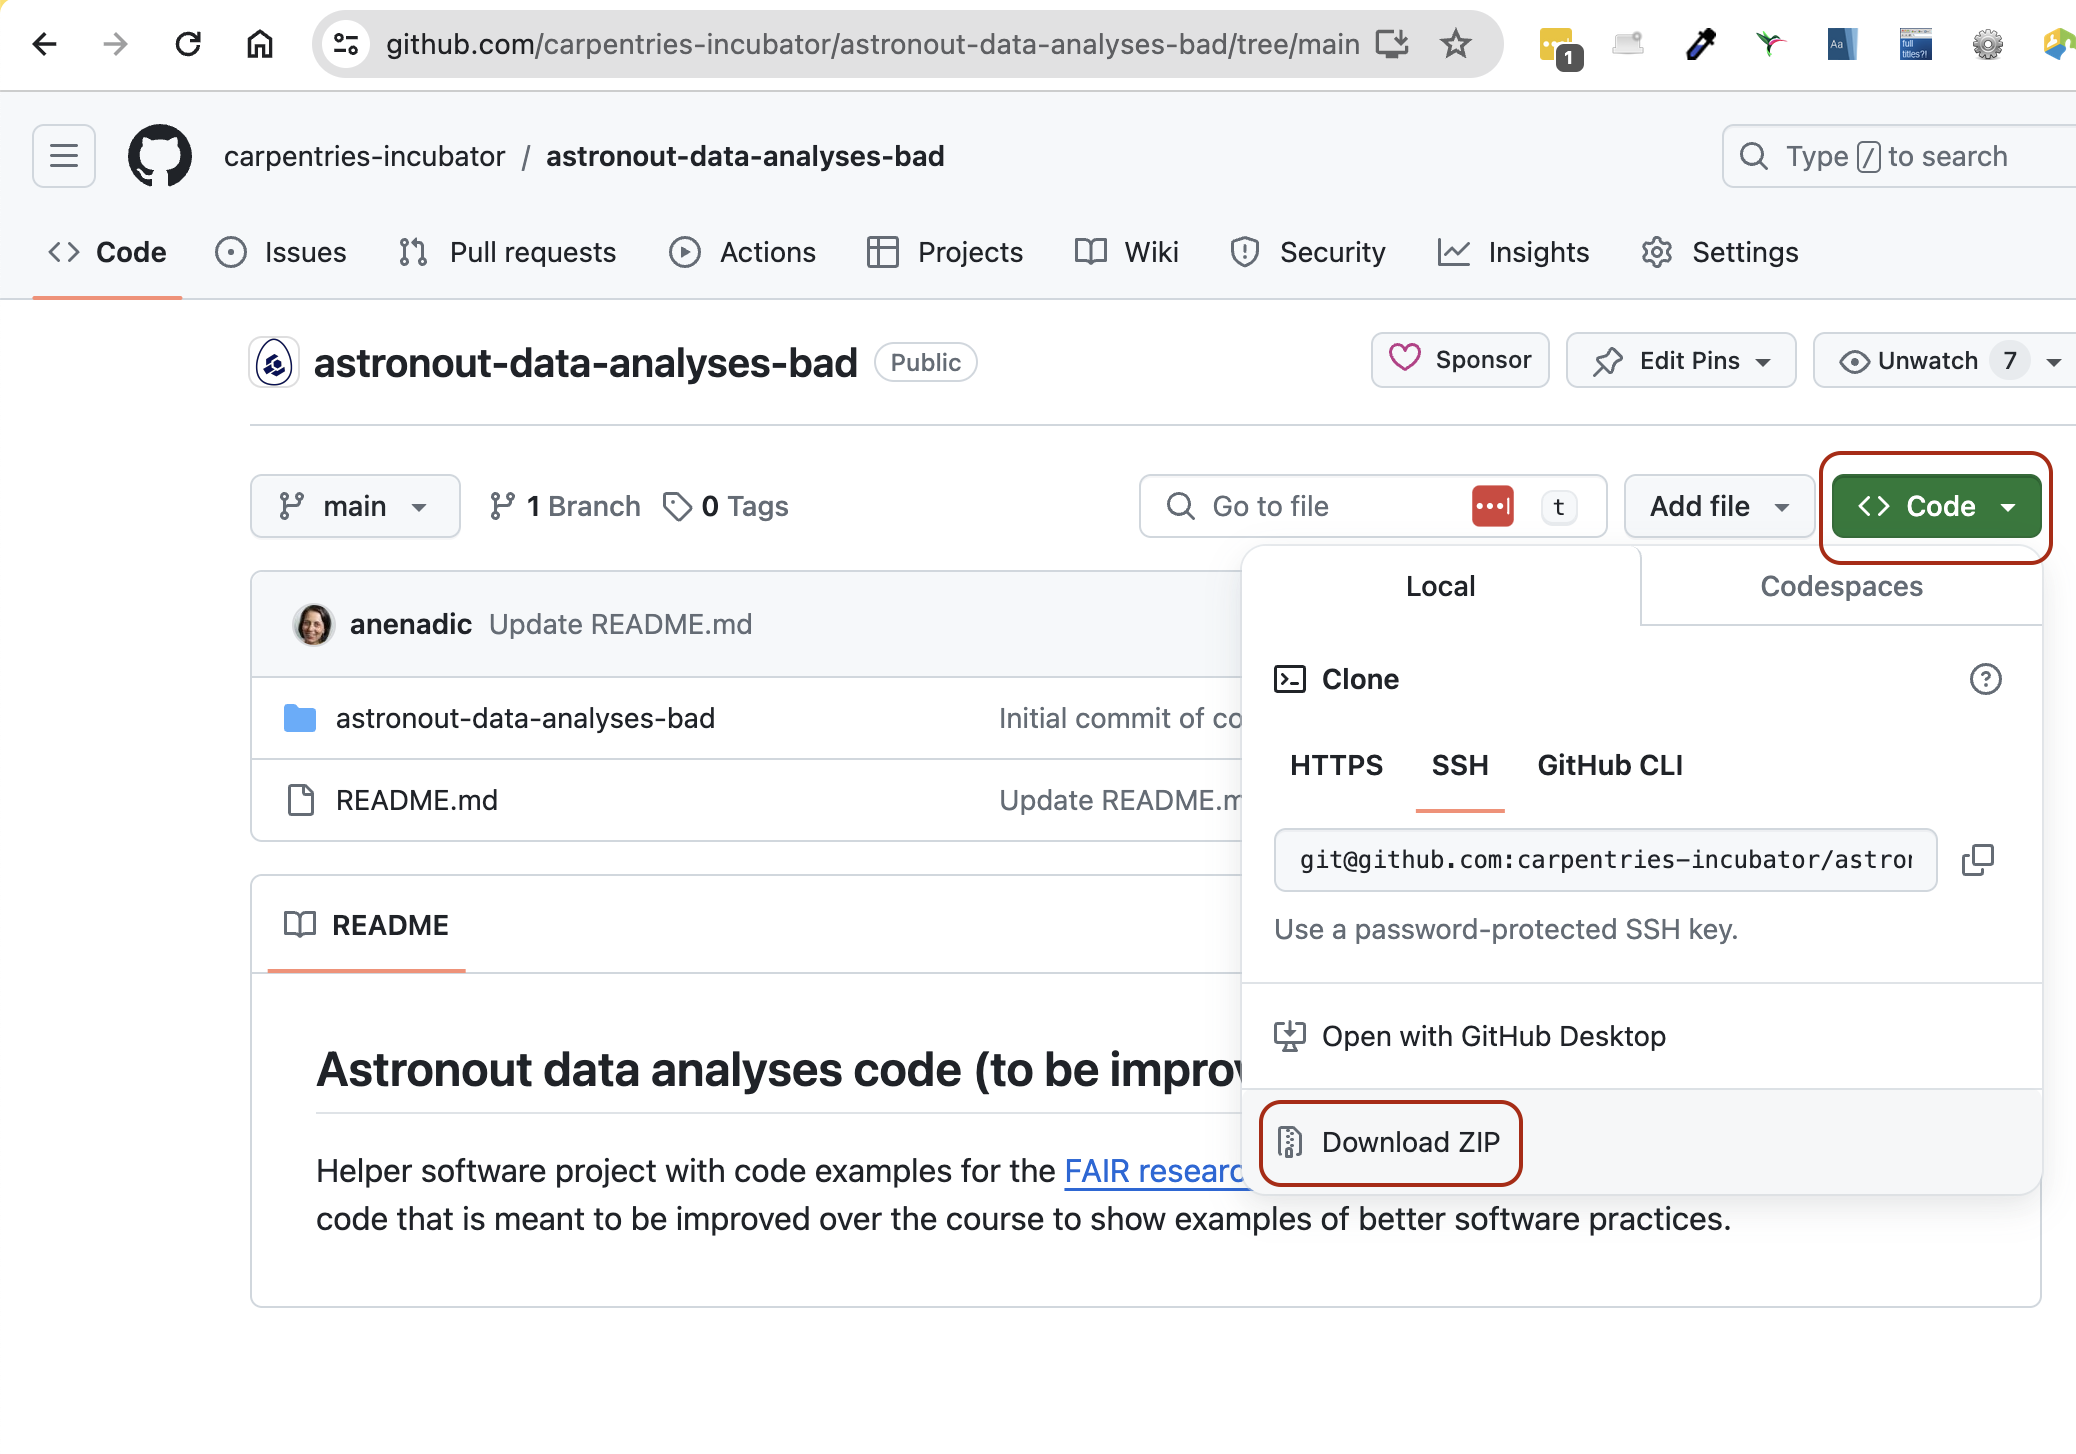
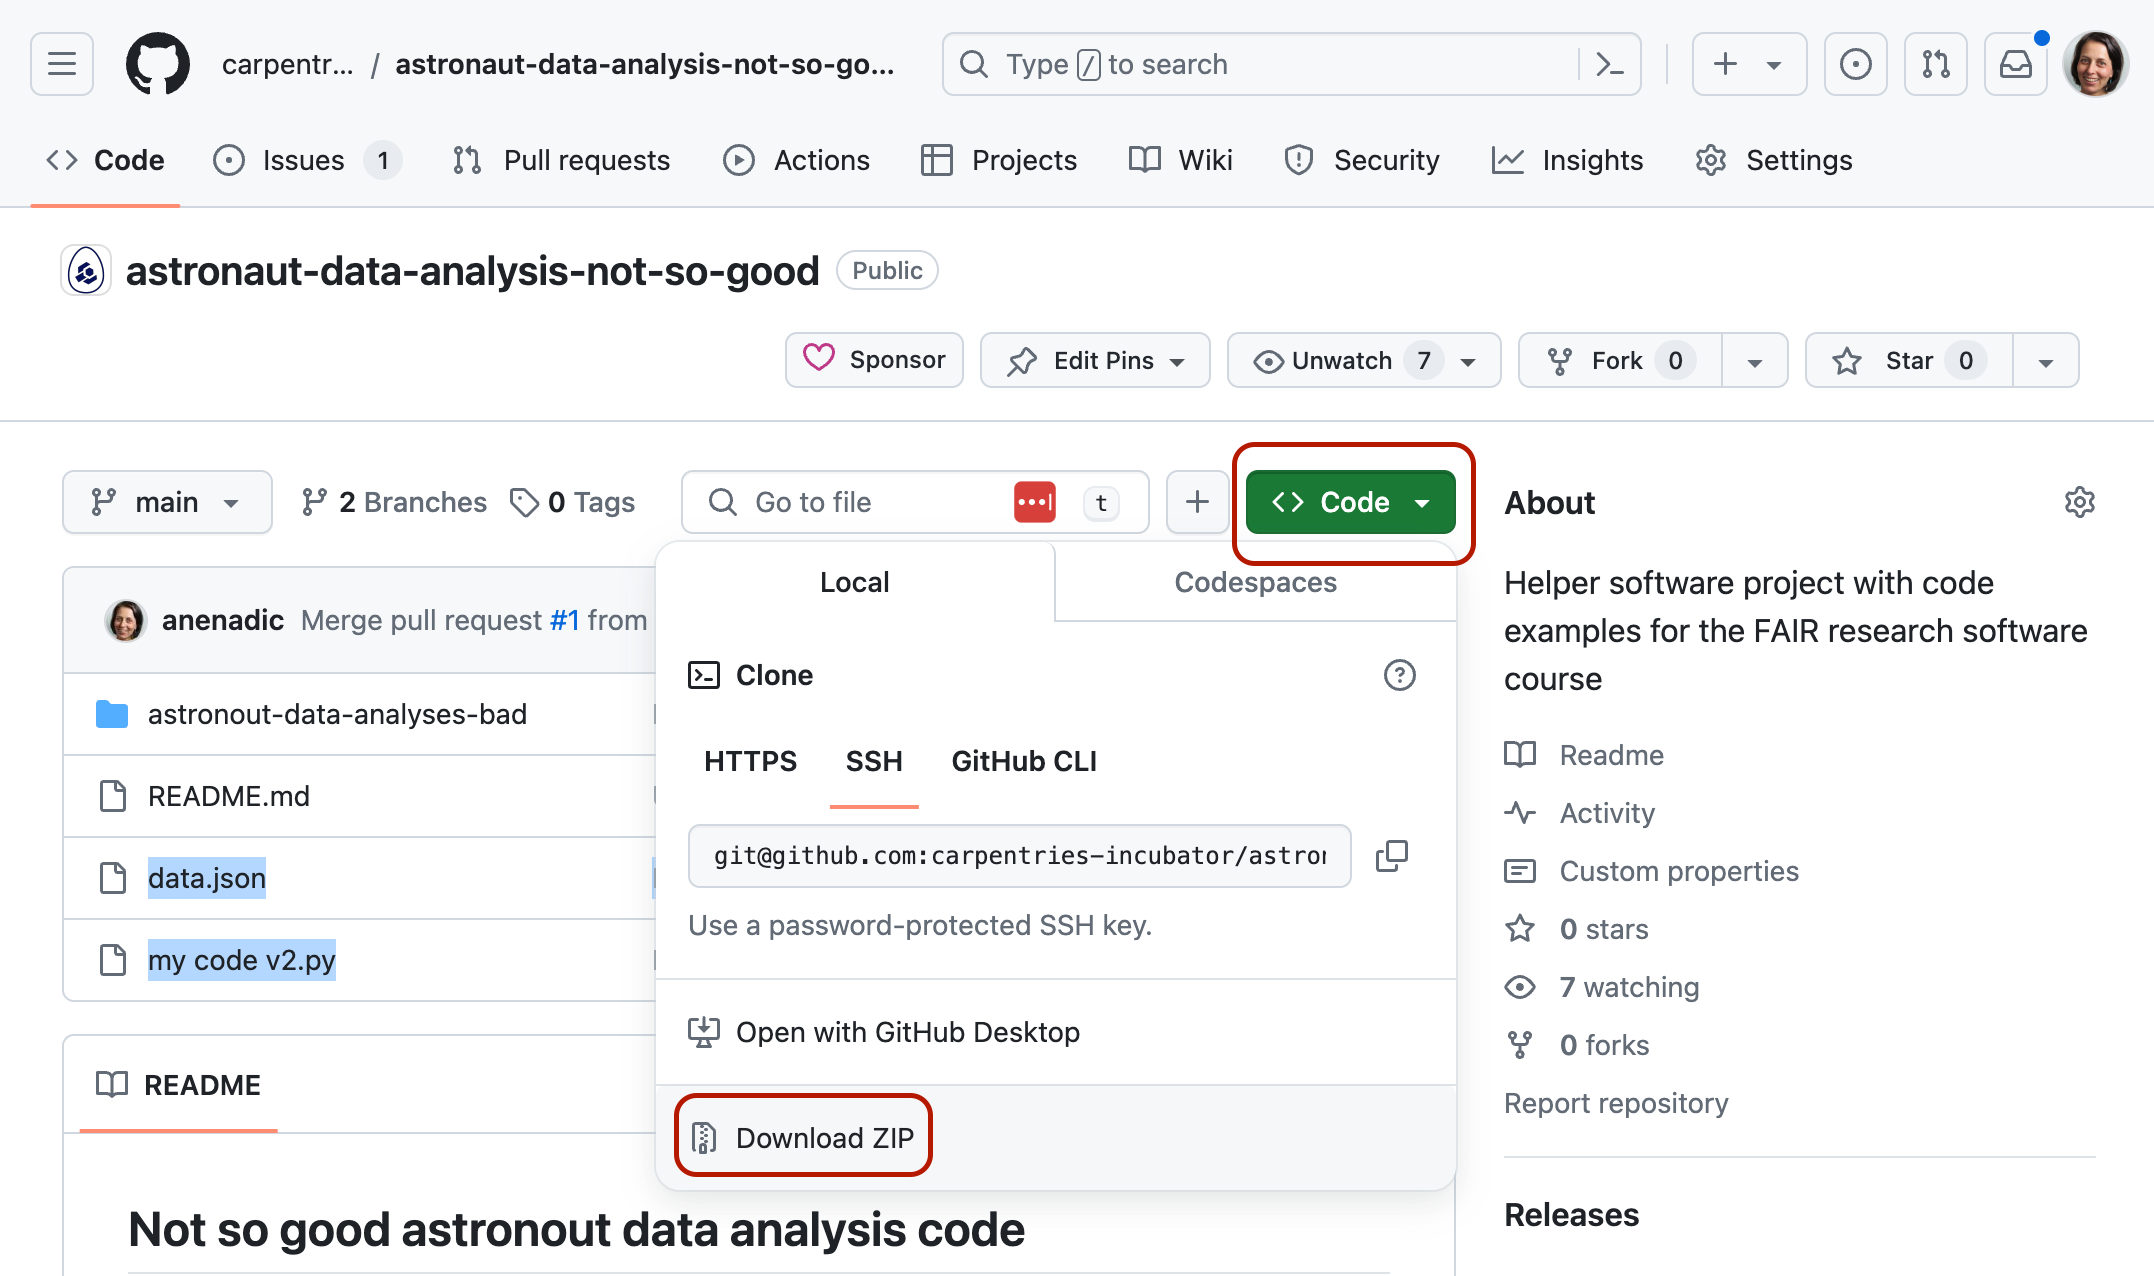
markdown source builds
Auto-generated via {sandpaper}
Source  : 197057ed01213d21627b72336f27ffb51a0ce098
Branch  : main
Author  : Aleksandra Nenadic <a.nenadic@manchester.ac.uk>
Time    : 2024-05-08 07:45:24 +0000
Message : Merge pull request #47 from carpentries-incubator/00-intro-review

Improved setup instructions

diff --git a/setup.md b/setup.md
@@ -319,19 +319,30 @@ Python 3 you installed.
 
 #### VS Code Extensions for Python
 
-You should also install the Python extension for VS Code by Microsoft to make your Python experience in VS Code better.
+You should install the Python extension for VS Code by Microsoft to make your Python experience in VS Code better.
 
 ![*Python extension for VS Code by Microsoft*](fig/vscode-python-extension.png){ alt-text="Python extension for VS Code by Microsoft" .image-with-shadow }
+
+
+#### VS Code Extentions for Viewing Data
+
+You should install the following extensions for viewing and editing data in VS Code:
+
+- Excel Viewer - custom editor and previewer for CSV files and Excel spreadsheets 
+- JSON - custom editor and previewer for JSON files
+
+![*CSV and JSON data editor and viewer extensions for VS Code*](fig/vscode-data-viewer-extensions.png){ alt-text="CSV and JSON data editor and viewer extensions for VS Code" .image-with-shadow }
 
 
 ### Astronaut data and analysis code 
 
 Download the data and code from the 
-[software repository](https://github.com/carpentries-incubator/astronout-data-analyses-bad/) by clicking the
-green `<> Code` button, then `Download ZIP` form the drop-down menu.
+[software repository](https://github.com/carpentries-incubator/astronaut-data-analysis-not-so-good) by clicking the
+green `<> Code` button, then selecting `Download ZIP` option from the drop-down menu.
 
-![*Code download as a zip file from GitHub*](fig/github-code-download.png){ alt-text="Code download as a zip file from GitHub" .image-with-shadow }
+![*Code and data bundle download as a zip file from GitHub*](fig/github-code-download.png){ alt-text="Code download as a zip file from GitHub" .image-with-shadow }
 
-This repository contains data on spacewalks by astronauts and code to analyse this data. 
+This repository contains data on spacewalks (extravehicular activities, EVAs) by astronauts and 
+some code to analyse and plot this data. 
 We will use it for code examples and exercises throughout this course.
 
